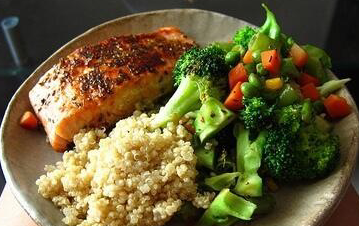
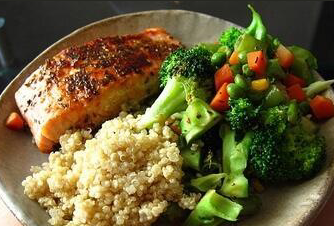
update template

diff --git a/style/style.min.css b/style/style.min.css
@@ -1,1 +1,1 @@
-@font-face{font-family:icomoon;src:url(./../fonts/icomoon.eot?-do0u51);src:url(./../fonts/icomoon.eot?#iefix-do0u51) format('embedded-opentype'),url(./../fonts/icomoon.woff?-do0u51) format('woff'),url(./../fonts/icomoon.ttf?-do0u51) format('truetype'),url(./../fonts/icomoon.svg?-do0u51#icomoon) format('svg');font-weight:400;font-style:normal}[class*=" icon-"],[class^=icon-]{font-family:icomoon;speak:none;font-style:normal;font-weight:400;font-variant:normal;text-transform:none;line-height:1;-webkit-font-smoothing:antialiased;-moz-osx-font-smoothing:grayscale}.icon-volume-high:before{content:"\e600"}.icon-volume-mute:before{content:"\e601"}.icon-play:before{content:"\e602"}.icon-pencil:before{content:"\e603"}.icon-arrow-down:before{content:"\e604"}.icon-uniE605:before{content:"\e605"}.icon-arrow-down2:before{content:"\e606"}.icon-cross:before{content:"\e609"}.icon-list:before{content:"\e60a"}.icon-layout:before{content:"\e60b"}.icon-heart:before{content:"\e60c"}.icon-heart2:before{content:"\e60d"}.icon-forward:before{content:"\e60e"}.icon-arrow-left2:before{content:"\e60f"}.icon-camera:before{content:"\e613"}.ng-cloak,[ng-cloak],[ng\:cloak]{display:none!important}*,:after,:before{-moz-box-sizing:border-box;-webkit-box-sizing:border-box;box-sizing:border-box}body,html{height:100%;margin:0;overflow:hidden;padding:0;text-transform:uppercase;width:100%}p{font-size:.813em;margin:.3em 0}.view-animate-container{position:relative;height:100%;overflow:hidden;overflow-y:scroll}.view-animate{height:100%;padding:0}.view-animate.ng-enter,.view-animate.ng-leave{-webkit-transition:all cubic-bezier(0.25,.46,.45,.94) .3s;transition:all cubic-bezier(0.25,.46,.45,.94) .3s;display:block;width:100%;position:absolute;top:0;left:0;right:0;bottom:0;padding:0}.right .view-animate.ng-enter{-webkit-transform:translate3d(100%,0,0);-moz-transform:translate3d(100%,0,0);transform:translate3d(100%,0,0)}.right .view-animate.ng-enter.ng-enter-active{-webkit-transform:translate3d(0,0,0);-moz-transform:translate3d(0,0,0);transform:translate3d(0,0,0)}.left .view-animate.ng-enter,.right .view-animate.ng-leave.ng-leave-active{-webkit-transform:translate3d(-100%,0,0);-moz-transform:translate3d(-100%,0,0);transform:translate3d(-100%,0,0)}.left .view-animate.ng-enter.ng-enter-active{-webkit-transform:translate3d(0,0,0);-moz-transform:translate3d(0,0,0);transform:translate3d(0,0,0)}.left .view-animate.ng-leave.ng-leave-active{-webkit-transform:translate3d(100%,0,0);-moz-transform:translate3d(100%,0,0);transform:translate3d(100%,0,0)}ul{margin:0;padding:0}.l-box{padding:1em}.m-box{padding:1.5em 0}a{text-decoration:none;color:#000}a:active,a:hover{-webkit-tap-highlight-color:#fff}header{border-bottom:1px solid #ccc;padding:.5em}header p:nth-child(1){text-align:left}header p:nth-child(2){text-align:center}header p:nth-child(3){text-align:right}header p a,header p a:active,header p a:hover{-webkit-tap-highlight-color:#fff}#containter{height:100%}#containter .pure-u-1,#containter .pure-u-1 .pure-g{height:inherit}.dine-block{display:-webkit-box;display:-moz-box;display:-ms-flexbox;display:-webkit-flex;display:flex;-webkit-box-align:center;-moz-box-align:center;-ms-flex-align:center;-webkit-align-items:center;align-items:center;-webkit-box-pack:center;-moz-box-pack:center;-ms-flex-pack:center;-webkit-justify-content:center;justify-content:center}.dine-block a,.dine-block a:active,.dine-block a:hover{-webkit-tap-highlight-color:#fdd}.pure-g .pure-u-1-2.dine-block:first-child{border-right:1px solid #ccc}#slider.height{height:200px}#slider.height .swipe-wrap{height:100%}.image-wrapper{height:300px;overflow:hidden}.image-wrapper img{height:100%;width:auto}#slider div b{display:block;font-weight:700;color:#14ADE5;font-size:20px;text-align:center;margin:10px;padding:100px 10px;box-shadow:0 1px #EBEBEB;background:#fff;border-radius:3px;border:1px solid;border-color:#E5E5E5 #D3D3D3 #B9C1C6}.swipe{overflow:hidden;visibility:hidden;position:relative}.swipe-wrap{overflow:hidden;position:relative}.swipe-wrap>div{float:left;width:100%;position:relative}
+@font-face{font-family:icomoon;src:url(./../fonts/icomoon.eot?-do0u51);src:url(./../fonts/icomoon.eot?#iefix-do0u51) format('embedded-opentype'),url(./../fonts/icomoon.woff?-do0u51) format('woff'),url(./../fonts/icomoon.ttf?-do0u51) format('truetype'),url(./../fonts/icomoon.svg?-do0u51#icomoon) format('svg');font-weight:400;font-style:normal}[class*=" icon-"],[class^=icon-]{font-family:icomoon;speak:none;font-style:normal;font-weight:400;font-variant:normal;text-transform:none;line-height:1;-webkit-font-smoothing:antialiased;-moz-osx-font-smoothing:grayscale}.icon-volume-high:before{content:"\e600"}.icon-volume-mute:before{content:"\e601"}.icon-play:before{content:"\e602"}.icon-pencil:before{content:"\e603"}.icon-arrow-down:before{content:"\e604"}.icon-uniE605:before{content:"\e605"}.icon-arrow-down2:before{content:"\e606"}.icon-cross:before{content:"\e609"}.icon-list:before{content:"\e60a"}.icon-layout:before{content:"\e60b"}.icon-heart:before{content:"\e60c"}.icon-heart2:before{content:"\e60d"}.icon-forward:before{content:"\e60e"}.icon-arrow-left2:before{content:"\e60f"}.icon-camera:before{content:"\e613"}.ng-cloak,[ng-cloak],[ng\:cloak]{display:none!important}*,:after,:before{-moz-box-sizing:border-box;-webkit-box-sizing:border-box;box-sizing:border-box}body,html{height:100%;margin:0;overflow:hidden;padding:0;text-transform:uppercase;width:100%}p{font-size:.813em;margin:.3em 0}.view-animate-container{position:relative;height:100%;overflow:hidden;overflow-y:scroll}.view-animate{height:100%;padding:0}.view-animate.ng-enter,.view-animate.ng-leave{-webkit-transition:all cubic-bezier(0.25,.46,.45,.94) .3s;transition:all cubic-bezier(0.25,.46,.45,.94) .3s;display:block;width:100%;position:absolute;top:0;left:0;right:0;bottom:0;padding:0}.right .view-animate.ng-enter{-webkit-transform:translate3d(100%,0,0);-moz-transform:translate3d(100%,0,0);transform:translate3d(100%,0,0)}.right .view-animate.ng-enter.ng-enter-active{-webkit-transform:translate3d(0,0,0);-moz-transform:translate3d(0,0,0);transform:translate3d(0,0,0)}.left .view-animate.ng-enter,.right .view-animate.ng-leave.ng-leave-active{-webkit-transform:translate3d(-100%,0,0);-moz-transform:translate3d(-100%,0,0);transform:translate3d(-100%,0,0)}.left .view-animate.ng-enter.ng-enter-active{-webkit-transform:translate3d(0,0,0);-moz-transform:translate3d(0,0,0);transform:translate3d(0,0,0)}.left .view-animate.ng-leave.ng-leave-active{-webkit-transform:translate3d(100%,0,0);-moz-transform:translate3d(100%,0,0);transform:translate3d(100%,0,0)}ul{margin:0;padding:0}.l-box{padding:1em}.m-box{padding:1.5em 0}a{text-decoration:none;color:#000}a:active,a:hover{-webkit-tap-highlight-color:#fff}header{border-bottom:1px solid #ccc;padding:.5em}header p:nth-child(1){text-align:left}header p:nth-child(2){text-align:center}header p:nth-child(3){text-align:right}header p a,header p a:active,header p a:hover{-webkit-tap-highlight-color:#fff}#containter{height:100%}#containter .pure-u-1,#containter .pure-u-1 .pure-g{height:inherit}.dine-block{display:-webkit-box;display:-moz-box;display:-ms-flexbox;display:-webkit-flex;display:flex;-webkit-box-align:center;-moz-box-align:center;-ms-flex-align:center;-webkit-align-items:center;align-items:center;-webkit-box-pack:center;-moz-box-pack:center;-ms-flex-pack:center;-webkit-justify-content:center;justify-content:center}.dine-block a,.dine-block a:active,.dine-block a:hover{-webkit-tap-highlight-color:#fdd}.pure-g .pure-u-1-2.dine-block:first-child{border-right:1px solid #ccc}#slider.height{height:200px}#slider.height .swipe-wrap{height:100%}.image-wrapper{height:270px;overflow:hidden}.image-wrapper img{width:100%}#slider div b{display:block;font-weight:700;color:#14ADE5;font-size:20px;text-align:center;margin:10px;padding:100px 10px;box-shadow:0 1px #EBEBEB;background:#fff;border-radius:3px;border:1px solid;border-color:#E5E5E5 #D3D3D3 #B9C1C6}.swipe{overflow:hidden;visibility:hidden;position:relative}.swipe-wrap{overflow:hidden;position:relative}.swipe-wrap>div{float:left;width:100%;position:relative}

diff --git a/style/style.css b/style/style.css
@@ -1,1 +1,1 @@
-[ng\:cloak],[ng-cloak],.ng-cloak{display:none !important}*,*:before,*:after{-moz-box-sizing:border-box;-webkit-box-sizing:border-box;box-sizing:border-box}body,html{height:100%;margin:0;overflow:hidden;padding:0;text-transform:uppercase;width:100%}p{font-size:0.813em;margin:0.3em 0}.view-animate-container{position:relative;height:100%;overflow:hidden;overflow-y:scroll}.view-animate{height:100%;padding:0}.view-animate.ng-enter,.view-animate.ng-leave{-webkit-transition:all cubic-bezier(0.25, 0.46, 0.45, 0.94) 0.3s;transition:all cubic-bezier(0.25, 0.46, 0.45, 0.94) 0.3s;display:block;width:100%;position:absolute;top:0;left:0;right:0;bottom:0;padding:0}.right .view-animate.ng-enter{-webkit-transform:translate3d(100%, 0, 0);-moz-transform:translate3d(100%, 0, 0);transform:translate3d(100%, 0, 0)}.right .view-animate.ng-enter.ng-enter-active{-webkit-transform:translate3d(0, 0, 0);-moz-transform:translate3d(0, 0, 0);transform:translate3d(0, 0, 0)}.right .view-animate.ng-leave.ng-leave-active{-webkit-transform:translate3d(-100%, 0, 0);-moz-transform:translate3d(-100%, 0, 0);transform:translate3d(-100%, 0, 0)}.left .view-animate.ng-enter{-webkit-transform:translate3d(-100%, 0, 0);-moz-transform:translate3d(-100%, 0, 0);transform:translate3d(-100%, 0, 0)}.left .view-animate.ng-enter.ng-enter-active{-webkit-transform:translate3d(0, 0, 0);-moz-transform:translate3d(0, 0, 0);transform:translate3d(0, 0, 0)}.left .view-animate.ng-leave.ng-leave-active{-webkit-transform:translate3d(100%, 0, 0);-moz-transform:translate3d(100%, 0, 0);transform:translate3d(100%, 0, 0)}ul{margin:0;padding:0}.l-box{padding:1.0em}.m-box{padding:1.5em 0em}a{text-decoration:none;color:#000}a:hover,a:active{-webkit-tap-highlight-color:#fff}header{border-bottom:1px solid #ccc;padding:0.5em}header p:nth-child(1){text-align:left}header p:nth-child(2){text-align:center}header p:nth-child(3){text-align:right}header p a,header p a:hover,header p a:active{-webkit-tap-highlight-color:#fff}#containter{height:100%}#containter .pure-u-1{height:inherit}#containter .pure-u-1{height:inherit}#containter .pure-u-1 .pure-g{height:inherit}.dine-block{display:-webkit-box;display:-moz-box;display:-ms-flexbox;display:-webkit-flex;display:flex;-webkit-box-align:center;-moz-box-align:center;-ms-flex-align:center;-webkit-align-items:center;align-items:center;-webkit-box-pack:center;-moz-box-pack:center;-ms-flex-pack:center;-webkit-justify-content:center;justify-content:center}.dine-block a,.dine-block a:hover,.dine-block a:active{-webkit-tap-highlight-color:#fdd}.pure-g .pure-u-1-2.dine-block:first-child{border-right:1px solid #ccc}#slider.height{height:200px}#slider.height .swipe-wrap{height:100%}.image-wrapper{height:300px;overflow:hidden}.image-wrapper img{height:100%;width:auto}#slider div b{display:block;font-weight:bold;color:#14ADE5;font-size:20px;text-align:center;margin:10px;padding:100px 10px;box-shadow:0 1px #EBEBEB;background:#fff;border-radius:3px;border:1px solid;border-color:#E5E5E5 #D3D3D3 #B9C1C6}.swipe{overflow:hidden;visibility:hidden;position:relative}.swipe-wrap{overflow:hidden;position:relative}.swipe-wrap>div{float:left;width:100%;position:relative}
+[ng\:cloak],[ng-cloak],.ng-cloak{display:none !important}*,*:before,*:after{-moz-box-sizing:border-box;-webkit-box-sizing:border-box;box-sizing:border-box}body,html{height:100%;margin:0;overflow:hidden;padding:0;text-transform:uppercase;width:100%}p{font-size:0.813em;margin:0.3em 0}.view-animate-container{position:relative;height:100%;overflow:hidden;overflow-y:scroll}.view-animate{height:100%;padding:0}.view-animate.ng-enter,.view-animate.ng-leave{-webkit-transition:all cubic-bezier(0.25, 0.46, 0.45, 0.94) 0.3s;transition:all cubic-bezier(0.25, 0.46, 0.45, 0.94) 0.3s;display:block;width:100%;position:absolute;top:0;left:0;right:0;bottom:0;padding:0}.right .view-animate.ng-enter{-webkit-transform:translate3d(100%, 0, 0);-moz-transform:translate3d(100%, 0, 0);transform:translate3d(100%, 0, 0)}.right .view-animate.ng-enter.ng-enter-active{-webkit-transform:translate3d(0, 0, 0);-moz-transform:translate3d(0, 0, 0);transform:translate3d(0, 0, 0)}.right .view-animate.ng-leave.ng-leave-active{-webkit-transform:translate3d(-100%, 0, 0);-moz-transform:translate3d(-100%, 0, 0);transform:translate3d(-100%, 0, 0)}.left .view-animate.ng-enter{-webkit-transform:translate3d(-100%, 0, 0);-moz-transform:translate3d(-100%, 0, 0);transform:translate3d(-100%, 0, 0)}.left .view-animate.ng-enter.ng-enter-active{-webkit-transform:translate3d(0, 0, 0);-moz-transform:translate3d(0, 0, 0);transform:translate3d(0, 0, 0)}.left .view-animate.ng-leave.ng-leave-active{-webkit-transform:translate3d(100%, 0, 0);-moz-transform:translate3d(100%, 0, 0);transform:translate3d(100%, 0, 0)}ul{margin:0;padding:0}.l-box{padding:1.0em}.m-box{padding:1.5em 0em}a{text-decoration:none;color:#000}a:hover,a:active{-webkit-tap-highlight-color:#fff}header{border-bottom:1px solid #ccc;padding:0.5em}header p:nth-child(1){text-align:left}header p:nth-child(2){text-align:center}header p:nth-child(3){text-align:right}header p a,header p a:hover,header p a:active{-webkit-tap-highlight-color:#fff}#containter{height:100%}#containter .pure-u-1{height:inherit}#containter .pure-u-1{height:inherit}#containter .pure-u-1 .pure-g{height:inherit}.dine-block{display:-webkit-box;display:-moz-box;display:-ms-flexbox;display:-webkit-flex;display:flex;-webkit-box-align:center;-moz-box-align:center;-ms-flex-align:center;-webkit-align-items:center;align-items:center;-webkit-box-pack:center;-moz-box-pack:center;-ms-flex-pack:center;-webkit-justify-content:center;justify-content:center}.dine-block a,.dine-block a:hover,.dine-block a:active{-webkit-tap-highlight-color:#fdd}.pure-g .pure-u-1-2.dine-block:first-child{border-right:1px solid #ccc}#slider.height{height:200px}#slider.height .swipe-wrap{height:100%}.image-wrapper{height:270px;overflow:hidden}.image-wrapper img{width:100%}#slider div b{display:block;font-weight:bold;color:#14ADE5;font-size:20px;text-align:center;margin:10px;padding:100px 10px;box-shadow:0 1px #EBEBEB;background:#fff;border-radius:3px;border:1px solid;border-color:#E5E5E5 #D3D3D3 #B9C1C6}.swipe{overflow:hidden;visibility:hidden;position:relative}.swipe-wrap{overflow:hidden;position:relative}.swipe-wrap>div{float:left;width:100%;position:relative}

diff --git a/views/dine-out.html b/views/dine-out.html
@@ -4,37 +4,44 @@
   	  <div class='swipe-wrap'>
   	  	<div>
   	  	  <div class='image-wrapper l-box'>
-  	  		  <img src='images/1.jpg'>	
+  	  		  <img src='images/1.jpg'/>
+            <h2>Dine #1</h2>
   	  	  </div>
   	  	</div>
   	  	<div>
   	  		<div class='image-wrapper l-box'>
-  	  		  <img src='images/2.jpg'>	
+  	  		  <img src='images/2.jpg' />
+            <h2>Dine #2</h2>	
   	  	  </div>
   	  	</div>
   	  	<div>
   	  		<div class='image-wrapper l-box'>
-  	  		  <img src='images/3.jpg'>	
+  	  		  <img src='images/3.jpg' />
+            <h2>Dine #3</h2>
   	  	  </div>
   	  	</div>
   	  	<div>
   	  		<div class='image-wrapper l-box'>
-  	  		  <img src='images/4.jpg'>	
+  	  		  <img src='images/4.jpg' />
+            <h2>Dine #4</h2>
   	  	  </div>
   	  	</div>
   	  	<div>
   	  		<div class='image-wrapper l-box'>
-  	  		  <img src='images/5.jpg'>	
+  	  		  <img src='images/5.jpg' />
+            <h2>Dine #5</h2>
   	  	  </div>
   	  	</div>
   	  	<div>
   	  		<div class='image-wrapper l-box'>
-  	  		  <img src='images/6.jpg'>	
+  	  		  <img src='images/6.jpg' />
+            <h2>Dine #6</h2>
   	  	  </div>
   	  	</div>
   	  	<div>
   	  		<div class='image-wrapper l-box'>
-  	  		  <img src='images/7.jpg'>	
+  	  		  <img src='images/7.jpg' />
+            <h2>Dine #7</h2>
   	  	  </div>
   	  	</div>
   	  </div>

diff --git a/scripts/controllers.js b/scripts/controllers.js
@@ -32,6 +32,7 @@ app
         
         var slider =
             Swipe(document.getElementById('slider'), {
+                startSlide: 2,
                 auto: false,
                 continuous: true,
                 disableScroll: false,

diff --git a/sass/style.scss b/sass/style.scss
@@ -207,11 +207,10 @@ header {
 }
 
 .image-wrapper {
-  height: 300px;
+  height: 270px;
   overflow: hidden;
   img {
-    height: 100%;
-    width: auto;
+    width: 100%;
   }
 }
 
